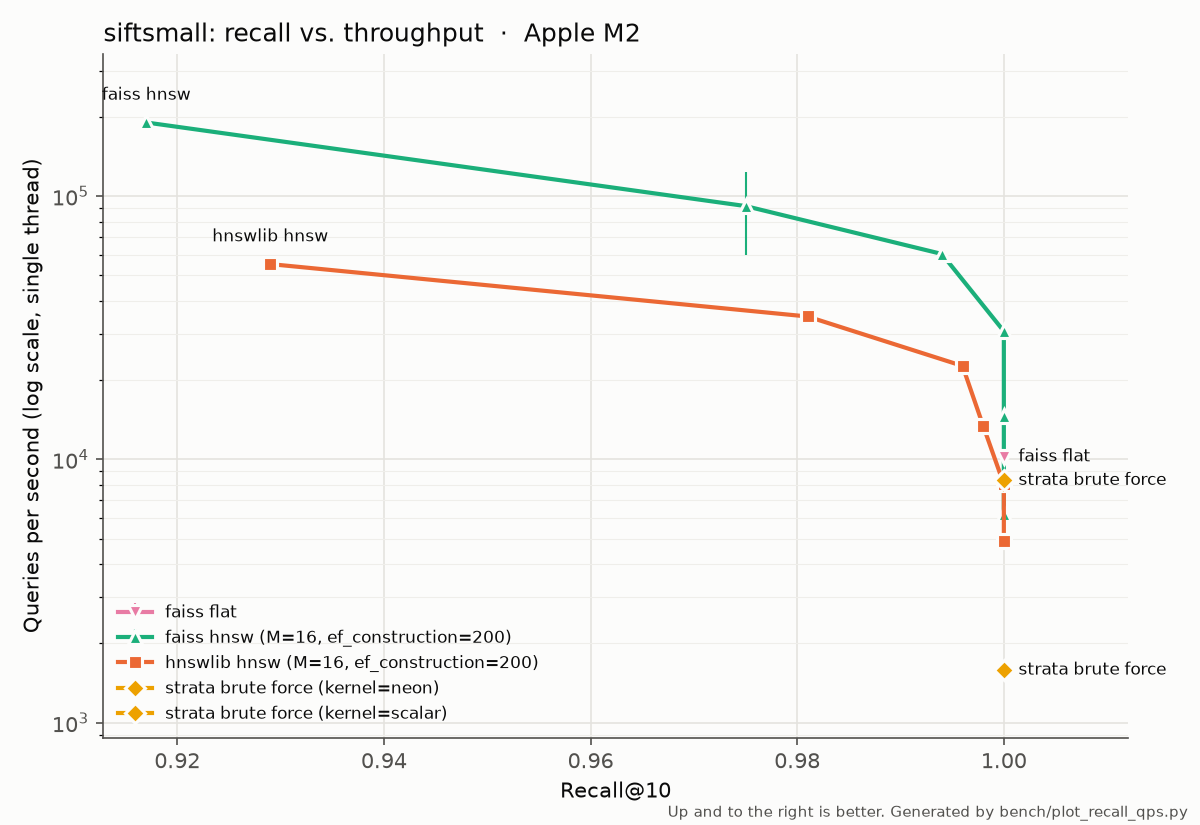
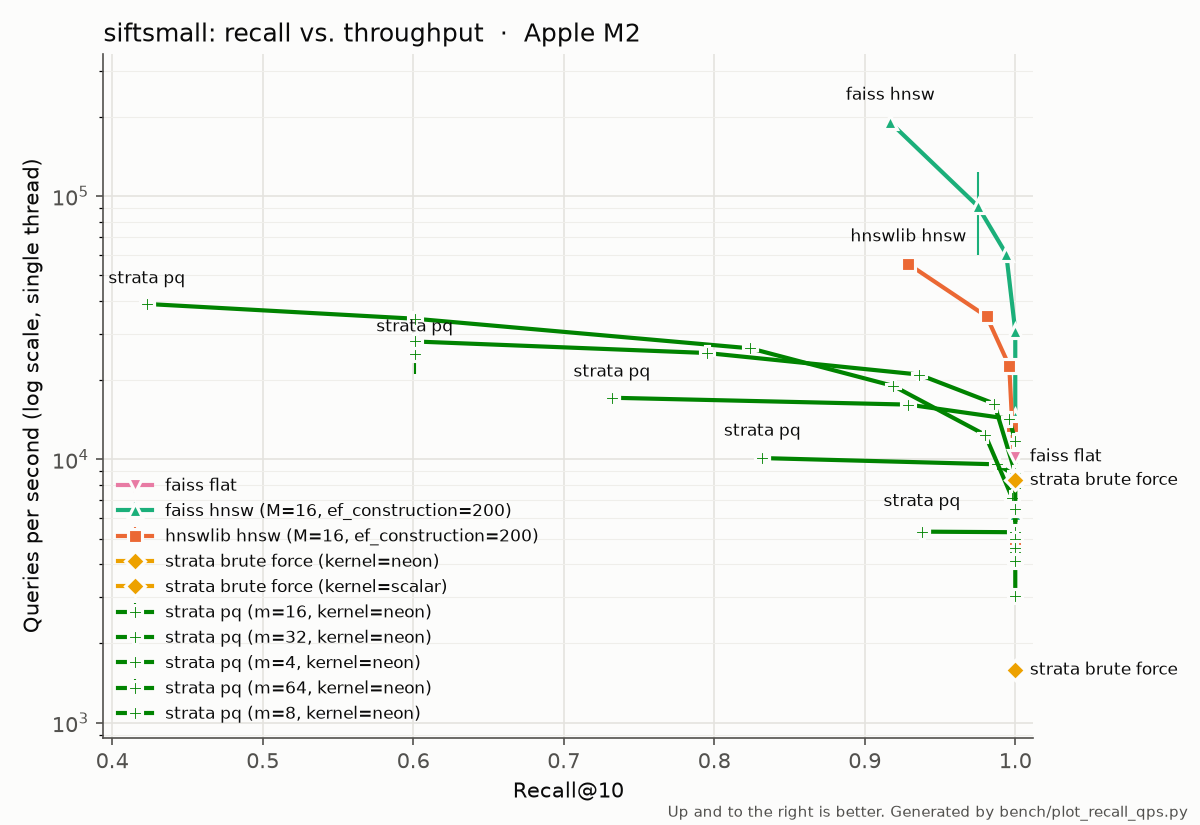
run_search_bench: keep every harness field in the record (dim, memory, ...)

diff --git a/bench/run_search_bench.py b/bench/run_search_bench.py
@@ -90,10 +90,8 @@ def main(argv: list[str] | None = None) -> int:
         num_queries=raw["num_queries"],
         command=cmd,
         points=[{"search_params": p["search_params"], "runs": p["runs"]} for p in raw["points"]],
-        raw={
-            key: raw[key]
-            for key in ("build_type", "asserts", "compiler", "warmup_passes", "kernel")
-        },
+        # Everything the harness reported except the points, which are stored above.
+        raw={key: value for key, value in raw.items() if key != "points"},
     )
     record = json.loads(path.read_text())
     for point in record["points"]:

diff --git a/results/tables.md b/results/tables.md
@@ -27,6 +27,41 @@ Generated by `bench/make_tables.py`. Do not edit by hand.
 | siftsmall | strata | brute_force | kernel=neon | — | Apple M2 | 8 | 5 | 1.0000 (k=10) | 1.0000 | 41887.0 ± 2366.4 | 114.7 ± 5.9 | 330.2 ± 73.4 | 0.00 | `902632fc` |
 | siftsmall | strata | brute_force | kernel=neon | — | Apple M2 | 2 | 5 | 1.0000 (k=10) | 1.0000 | 17084.8 ± 1238.6 | 112.8 ± 11.7 | 145.2 ± 37.1 | 0.00 | `3309d36d` |
 | siftsmall | strata | brute_force | kernel=neon | — | Apple M2 | 4 | 5 | 1.0000 (k=10) | 1.0000 | 26202.0 ± 552.2 | 143.5 ± 5.0 | 188.2 ± 55.3 | 0.00 | `3309d36d` |
+| siftsmall | strata | pq | m=4, kernel=neon | rerank=0 | Apple M2 | 1 | 3 | 0.4230 (k=10) | 0.4230 | 38246.6 ± 1429.7 | 25.3 ± 0.1 | 33.0 ± 6.9 | 0.81 | `0f37e721` |
+| siftsmall | strata | pq | m=4, kernel=neon | rerank=10 | Apple M2 | 1 | 3 | 0.4230 (k=10) | 0.4230 | 38939.8 ± 804.7 | 25.2 ± 0.0 | 29.8 ± 5.5 | 0.81 | `0f37e721` |
+| siftsmall | strata | pq | m=4, kernel=neon | rerank=20 | Apple M2 | 1 | 3 | 0.6010 (k=10) | 0.6010 | 34226.7 ± 837.4 | 28.9 ± 0.6 | 34.9 ± 3.2 | 0.81 | `0f37e721` |
+| siftsmall | strata | pq | m=4, kernel=neon | rerank=50 | Apple M2 | 1 | 3 | 0.8240 (k=10) | 0.8240 | 26411.8 ± 263.0 | 37.2 ± 0.3 | 44.9 ± 2.7 | 0.81 | `0f37e721` |
+| siftsmall | strata | pq | m=4, kernel=neon | rerank=100 | Apple M2 | 1 | 3 | 0.9190 (k=10) | 0.9190 | 19006.8 ± 400.1 | 51.6 ± 0.7 | 65.4 ± 8.3 | 0.81 | `0f37e721` |
+| siftsmall | strata | pq | m=4, kernel=neon | rerank=200 | Apple M2 | 1 | 3 | 0.9800 (k=10) | 0.9800 | 12391.3 ± 288.3 | 79.5 ± 2.2 | 101.2 ± 5.3 | 0.81 | `0f37e721` |
+| siftsmall | strata | pq | m=4, kernel=neon | rerank=500 | Apple M2 | 1 | 3 | 0.9980 (k=10) | 0.9980 | 7131.2 ± 146.5 | 139.6 ± 1.5 | 166.6 ± 19.6 | 0.81 | `0f37e721` |
+| siftsmall | strata | pq | m=8, kernel=neon | rerank=0 | Apple M2 | 1 | 3 | 0.6010 (k=10) | 0.6010 | 25106.2 ± 4046.0 | 36.5 ± 2.5 | 75.7 ± 48.5 | 1.25 | `0f37e721` |
+| siftsmall | strata | pq | m=8, kernel=neon | rerank=10 | Apple M2 | 1 | 3 | 0.6010 (k=10) | 0.6010 | 28047.4 ± 637.8 | 34.9 ± 0.3 | 44.7 ± 5.8 | 1.25 | `0f37e721` |
+| siftsmall | strata | pq | m=8, kernel=neon | rerank=20 | Apple M2 | 1 | 3 | 0.7950 (k=10) | 0.7950 | 25358.4 ± 429.8 | 38.5 ± 0.5 | 49.4 ± 0.9 | 1.25 | `0f37e721` |
+| siftsmall | strata | pq | m=8, kernel=neon | rerank=50 | Apple M2 | 1 | 3 | 0.9360 (k=10) | 0.9360 | 20998.4 ± 381.5 | 46.9 ± 1.0 | 56.5 ± 4.7 | 1.25 | `0f37e721` |
+| siftsmall | strata | pq | m=8, kernel=neon | rerank=100 | Apple M2 | 1 | 3 | 0.9860 (k=10) | 0.9860 | 16286.2 ± 236.4 | 60.4 ± 0.8 | 72.2 ± 6.7 | 1.25 | `0f37e721` |
+| siftsmall | strata | pq | m=8, kernel=neon | rerank=200 | Apple M2 | 1 | 3 | 1.0000 (k=10) | 1.0000 | 8863.5 ± 4103.1 | 95.2 ± 11.8 | 559.4 ± 783.9 | 1.25 | `0f37e721` |
+| siftsmall | strata | pq | m=8, kernel=neon | rerank=500 | Apple M2 | 1 | 3 | 1.0000 (k=10) | 1.0000 | 6466.5 ± 90.3 | 154.4 ± 0.8 | 181.2 ± 11.3 | 1.25 | `0f37e721` |
+| siftsmall | strata | pq | m=16, kernel=neon | rerank=0 | Apple M2 | 1 | 3 | 0.7320 (k=10) | 0.7320 | 16913.9 ± 405.3 | 57.8 ± 1.4 | 74.8 ± 2.2 | 2.72 | `0f37e721` |
+| siftsmall | strata | pq | m=16, kernel=neon | rerank=10 | Apple M2 | 1 | 3 | 0.7320 (k=10) | 0.7320 | 17143.7 ± 520.5 | 57.2 ± 0.7 | 69.9 ± 6.2 | 2.72 | `0f37e721` |
+| siftsmall | strata | pq | m=16, kernel=neon | rerank=20 | Apple M2 | 1 | 3 | 0.9290 (k=10) | 0.9290 | 16146.4 ± 448.3 | 60.8 ± 0.9 | 76.1 ± 5.3 | 2.72 | `0f37e721` |
+| siftsmall | strata | pq | m=16, kernel=neon | rerank=50 | Apple M2 | 1 | 3 | 0.9960 (k=10) | 0.9960 | 14247.6 ± 157.7 | 69.8 ± 0.7 | 79.8 ± 2.7 | 2.72 | `0f37e721` |
+| siftsmall | strata | pq | m=16, kernel=neon | rerank=100 | Apple M2 | 1 | 3 | 1.0000 (k=10) | 1.0000 | 11724.7 ± 199.3 | 84.3 ± 0.7 | 98.5 ± 2.2 | 2.72 | `0f37e721` |
+| siftsmall | strata | pq | m=16, kernel=neon | rerank=200 | Apple M2 | 1 | 3 | 1.0000 (k=10) | 1.0000 | 8922.8 ± 41.6 | 111.3 ± 0.8 | 121.5 ± 0.3 | 2.72 | `0f37e721` |
+| siftsmall | strata | pq | m=16, kernel=neon | rerank=500 | Apple M2 | 1 | 3 | 1.0000 (k=10) | 1.0000 | 5379.1 ± 315.0 | 183.2 ± 7.7 | 237.7 ± 39.5 | 2.72 | `0f37e721` |
+| siftsmall | strata | pq | m=32, kernel=neon | rerank=0 | Apple M2 | 1 | 3 | 0.8320 (k=10) | 0.8320 | 10081.3 ± 113.6 | 96.7 ± 0.2 | 122.8 ± 9.8 | 4.56 | `0f37e721` |
+| siftsmall | strata | pq | m=32, kernel=neon | rerank=10 | Apple M2 | 1 | 3 | 0.8320 (k=10) | 0.8320 | 10114.7 ± 156.0 | 96.8 ± 0.2 | 120.2 ± 13.2 | 4.56 | `0f37e721` |
+| siftsmall | strata | pq | m=32, kernel=neon | rerank=20 | Apple M2 | 1 | 3 | 0.9880 (k=10) | 0.9880 | 9575.8 ± 307.7 | 101.2 ± 0.8 | 145.7 ± 39.9 | 4.56 | `0f37e721` |
+| siftsmall | strata | pq | m=32, kernel=neon | rerank=50 | Apple M2 | 1 | 3 | 1.0000 (k=10) | 1.0000 | 8683.5 ± 385.6 | 112.0 ± 2.0 | 191.8 ± 103.7 | 4.56 | `0f37e721` |
+| siftsmall | strata | pq | m=32, kernel=neon | rerank=100 | Apple M2 | 1 | 3 | 1.0000 (k=10) | 1.0000 | 7782.8 ± 199.9 | 126.0 ± 1.6 | 169.1 ± 24.2 | 4.56 | `0f37e721` |
+| siftsmall | strata | pq | m=32, kernel=neon | rerank=200 | Apple M2 | 1 | 3 | 1.0000 (k=10) | 1.0000 | 6473.9 ± 7.2 | 153.6 ± 0.4 | 173.9 ± 2.9 | 4.56 | `0f37e721` |
+| siftsmall | strata | pq | m=32, kernel=neon | rerank=500 | Apple M2 | 1 | 3 | 1.0000 (k=10) | 1.0000 | 4454.9 ± 79.5 | 223.6 ± 2.2 | 264.5 ± 24.3 | 4.56 | `0f37e721` |
+| siftsmall | strata | pq | m=64, kernel=neon | rerank=0 | Apple M2 | 1 | 3 | 0.9380 (k=10) | 0.9380 | 5446.9 ± 71.7 | 181.1 ± 0.4 | 208.3 ± 6.2 | 7.31 | `0f37e721` |
+| siftsmall | strata | pq | m=64, kernel=neon | rerank=10 | Apple M2 | 1 | 3 | 0.9380 (k=10) | 0.9380 | 5314.9 ± 153.5 | 184.6 ± 4.8 | 227.9 ± 10.6 | 7.31 | `0f37e721` |
+| siftsmall | strata | pq | m=64, kernel=neon | rerank=20 | Apple M2 | 1 | 3 | 1.0000 (k=10) | 1.0000 | 5288.0 ± 60.5 | 186.2 ± 1.0 | 226.4 ± 19.9 | 7.31 | `0f37e721` |
+| siftsmall | strata | pq | m=64, kernel=neon | rerank=50 | Apple M2 | 1 | 3 | 1.0000 (k=10) | 1.0000 | 5003.6 ± 114.4 | 197.5 ± 2.6 | 227.4 ± 22.4 | 7.31 | `0f37e721` |
+| siftsmall | strata | pq | m=64, kernel=neon | rerank=100 | Apple M2 | 1 | 3 | 1.0000 (k=10) | 1.0000 | 4619.6 ± 80.4 | 213.6 ± 2.9 | 246.9 ± 16.5 | 7.31 | `0f37e721` |
+| siftsmall | strata | pq | m=64, kernel=neon | rerank=200 | Apple M2 | 1 | 3 | 1.0000 (k=10) | 1.0000 | 4100.7 ± 22.4 | 242.3 ± 0.7 | 272.5 ± 3.3 | 7.31 | `0f37e721` |
+| siftsmall | strata | pq | m=64, kernel=neon | rerank=500 | Apple M2 | 1 | 3 | 1.0000 (k=10) | 1.0000 | 3037.8 ± 87.7 | 319.2 ± 1.8 | 530.9 ± 219.7 | 7.31 | `0f37e721` |
 
 Recall@k is tie-aware (ann-benchmarks definition): a result counts if it is no farther
 than the k-th true neighbor. Recall by id is strict id matching; it can be lower when
